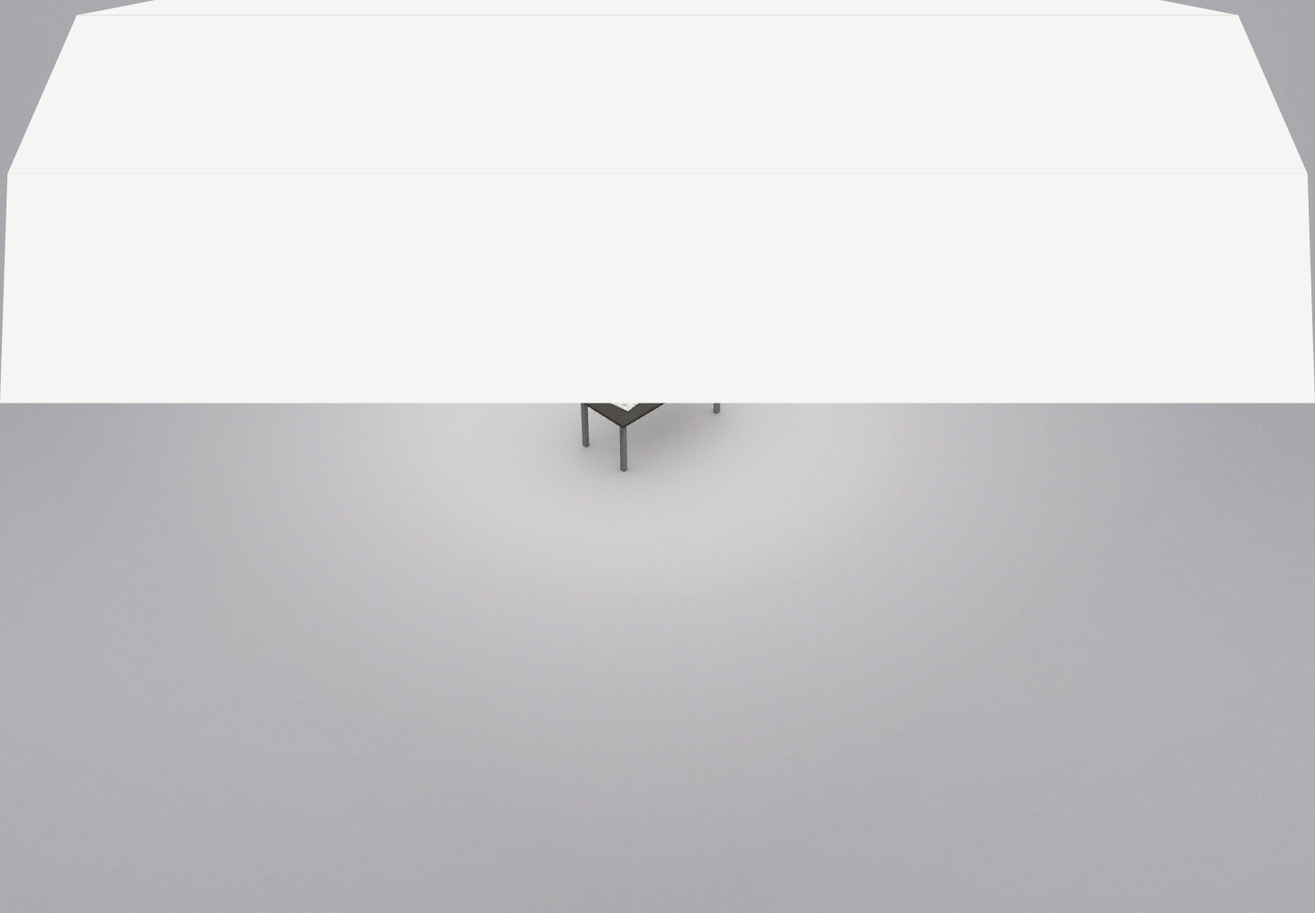
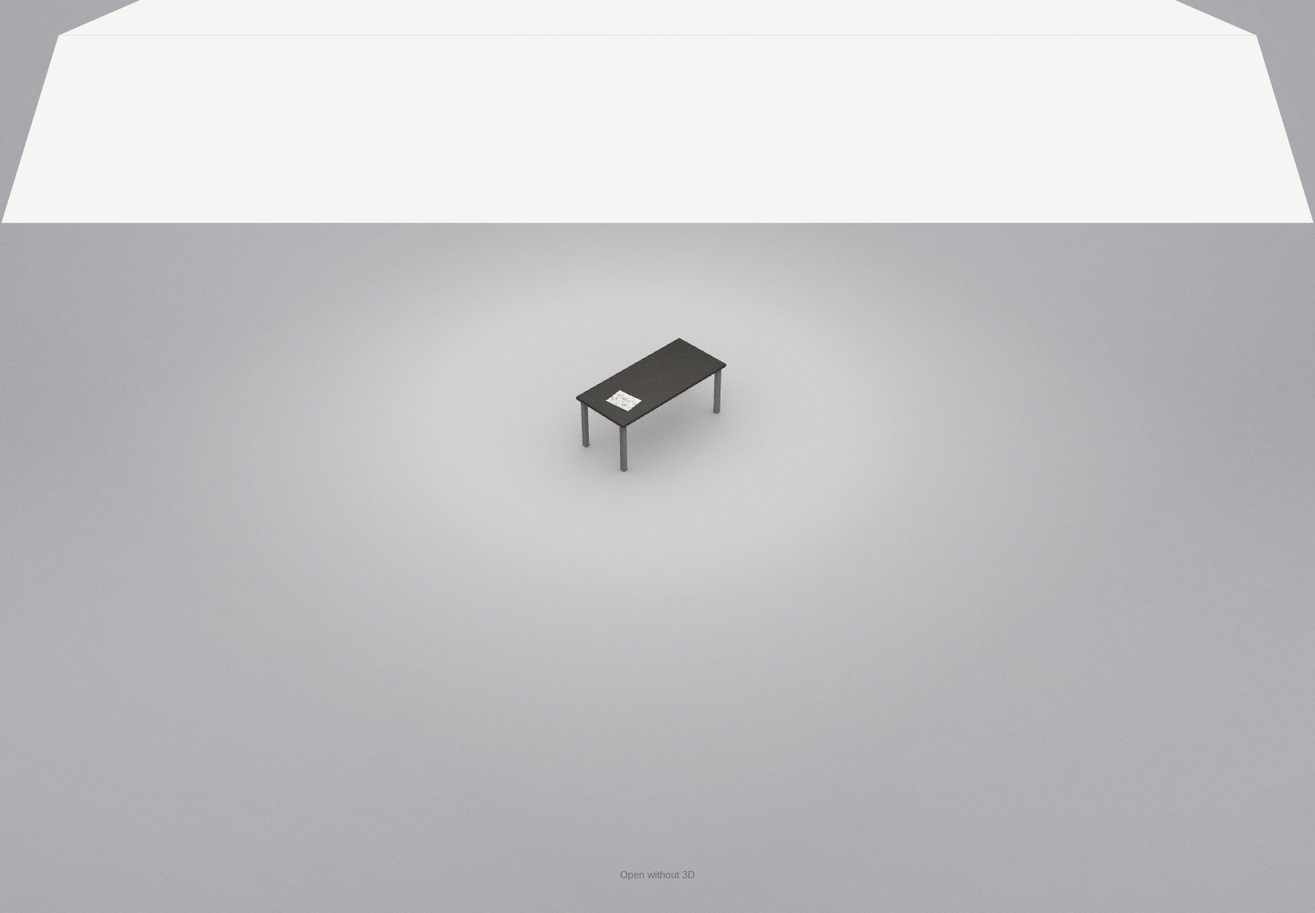
Add minimal text-first entrance and real workspace loader

diff --git a/experience/src/Application/UI/components/LoadingScreen.tsx b/experience/src/Application/UI/components/LoadingScreen.tsx
@@ -2,14 +2,14 @@ import React, { useEffect, useRef, useState } from 'react';
 import Application from '../../Application';
 import eventBus from '../EventBus';
 
-/** Scroll controls the sectional door; Enter completes the same path automatically. */
+/** Real asset loading, then text moves away before the sectional door opens. */
 const LoadingScreen: React.FC = () => {
     const [progress, setProgress] = useState(0);
     const [failed, setFailed] = useState(false);
     const [phase, setPhase] = useState<'closed' | 'opening' | 'done'>('closed');
     const panels = useRef<(HTMLDivElement | null)[]>([]);
-    const enter = useRef<() => void>(() => {});
-    const motion = useRef({ current: 0, target: 0, automatic: false, from: 0, began: 0, finished: false });
+    const copy = useRef<HTMLElement>(null);
+    const motion = useRef({ current: 0, target: 0, finished: false });
 
     useEffect(() => {
         const update = (event: Event) => setProgress(Math.min(1, (event as CustomEvent).detail.progress || 0));
@@ -19,6 +19,7 @@ const LoadingScreen: React.FC = () => {
         const application = new Application();
         application.camera.interactionLocked = true;
         const resources = application.resources;
+        if (resources.failed) setFailed(true);
         if (resources.toLoad > 0) setProgress(resources.loaded / resources.toLoad);
         return () => {
             document.removeEventListener('loadedSource', update);
@@ -52,10 +53,17 @@ const LoadingScreen: React.FC = () => {
             removeListeners();
         };
         const draw = (value: number) => {
+            // The first 30% is only the introduction; the door stays closed.
+            const textProgress = Math.min(1, value / .30);
+            if (copy.current) {
+                copy.current.style.transform = `translateY(${-textProgress * innerHeight * .6}px)`;
+                copy.current.style.opacity = `${1 - Math.max(0, (textProgress - .2) / .8)}`;
+            }
+            const doorProgress = Math.max(0, (value - .30) / .70);
             const height = window.innerHeight;
             const panelHeight = height / 4;
             const radius = panelHeight * 1.15;
-            const lift = value * (height + Math.PI * radius / 2 + height * .25);
+            const lift = doorProgress * (height + Math.PI * radius / 2 + height * .25);
             const bend = Math.min(1, lift / radius);
             const track = (distance: number) => {
                 const flatY = height - distance;
@@ -80,14 +88,8 @@ const LoadingScreen: React.FC = () => {
         const animate = (now: number) => {
             frame = 0;
             if (state.finished) return;
-            if (state.automatic) {
-                const t = Math.min(1, (now - state.began) / 2000);
-                const eased = t < .5 ? 4 * t * t * t : 1 - Math.pow(-2 * t + 2, 3) / 2;
-                state.current = state.from + (1 - state.from) * eased;
-            } else {
-                const blend = 1 - Math.exp(-Math.min(64, now - previous) / 70);
-                state.current += (state.target - state.current) * blend;
-            }
+            const blend = 1 - Math.exp(-Math.min(64, now - previous) / 70);
+            state.current += (state.target - state.current) * blend;
             previous = now;
             draw(state.current);
             if (state.target >= 1 && state.current > .999) { finish(); return; }
@@ -97,13 +99,13 @@ const LoadingScreen: React.FC = () => {
                 setPhase('closed');
                 return;
             }
-            if (state.automatic || Math.abs(state.target - state.current) > .0001) frame = requestAnimationFrame(animate);
+            if (Math.abs(state.target - state.current) > .0001) frame = requestAnimationFrame(animate);
         };
         const schedule = () => {
             if (!frame) { previous = performance.now(); frame = requestAnimationFrame(animate); }
         };
         const advance = (amount: number) => {
-            if (state.finished || state.automatic) return;
+            if (state.finished) return;
             if (reduced && amount > 0) { finish(); return; }
             state.target = Math.max(0, Math.min(1, state.target + amount));
             if (state.target > 0) setPhase('opening');
@@ -126,19 +128,10 @@ const LoadingScreen: React.FC = () => {
         }
         function keyboard(event: KeyboardEvent) {
             if ((event.target as Element).closest('a,button,input')) return;
-            if (['ArrowDown', 'PageDown', ' '].includes(event.key)) { event.preventDefault(); advance(.3); }
-            if (['ArrowUp', 'PageUp'].includes(event.key)) { event.preventDefault(); advance(-.3); }
+            if (['ArrowDown', 'PageDown', ' '].includes(event.key)) { event.preventDefault(); advance(.25); }
+            if (['ArrowUp', 'PageUp'].includes(event.key)) { event.preventDefault(); advance(-.25); }
+            if (['Enter', 'End'].includes(event.key)) { event.preventDefault(); advance(1); }
         }
-        enter.current = () => {
-            if (state.finished) return;
-            if (reduced) { finish(); return; }
-            state.from = state.current;
-            state.began = performance.now();
-            state.automatic = true;
-            state.target = 1;
-            setPhase('opening');
-            schedule();
-        };
         window.addEventListener('resize', resize);
         document.addEventListener('wheel', wheel, { passive: false });
         document.addEventListener('touchstart', touchStart, { passive: true });
@@ -148,6 +141,7 @@ const LoadingScreen: React.FC = () => {
     }, [ready]);
 
     if (phase === 'done') return null;
+    const loadingText = progress < .35 ? 'Loading graphics workspace…' : progress < .8 ? 'Setting up the workbench…' : 'One last bolt…';
     return (
         <div className={`garage-entry garage-entry--${phase}`} aria-label="Workshop entrance">
             <div className="garage-door" aria-hidden="true">
@@ -157,14 +151,20 @@ const LoadingScreen: React.FC = () => {
                     ))}
                 </div>
             </div>
-            <section className="garage-nameplate" aria-label="Shreethan Palla portfolio">
-                <h1 className="garage-name">Hey, I’m <span className="garage-person">Shreethan Palla.</span></h1>
-                <p className="garage-intro">I love building things that move.</p>
+            {!ready && <div className="workspace-loading">
+                {failed ? <p className="workspace-load-error" role="alert">The 3D workspace couldn’t load.</p> : <>
+                    <div className="workspace-spinner" role="progressbar" aria-label="Loading graphics workspace" aria-valuemin={0} aria-valuemax={100} aria-valuenow={Math.round(progress * 100)} />
+                    <p className="workspace-load-message" role="status">{loadingText}</p>
+                    <span className="workspace-load-percent" aria-hidden="true">{Math.round(progress * 100)}%</span>
+                </>}
+            </div>}
+            {ready && <section className="garage-copy" ref={copy} aria-label="About Shreethan">
+                <h1 className="garage-name">Hey! I’m <span className="garage-person">Shreethan Palla.</span></h1>
+                <p className="garage-intro">I build robots, RC cars, and software.</p>
                 <p className="garage-hint">Scroll to open</p>
-                <button className="garage-start" onClick={() => enter.current()} disabled={!ready}>Enter</button>
-                <p className="garage-sr-only" role="status">{failed ? 'Unable to load the workshop.' : ready ? 'Scroll, swipe up, or press Enter to open.' : 'Loading workshop.'}</p>
-                <a className="garage-direct" href="/desktop">Open without 3D</a>
-            </section>
+                <p className="garage-sr-only">Scroll, swipe up, or use Page Down to open. Press End to continue directly.</p>
+            </section>}
+            <a className="garage-direct" href="/desktop">Open without 3D</a>
         </div>
     );
 };

diff --git a/experience/src/Application/UI/style.css b/experience/src/Application/UI/style.css
@@ -198,22 +198,22 @@ br {
 .garage-panels{position:absolute;inset:0;perspective:140vh;perspective-origin:50% 0%;transform-style:preserve-3d}
 .garage-panel{position:absolute;left:0;width:100%;height:calc(25% + 1px);background:var(--studio-surface);border-top:1px solid var(--studio-line);box-sizing:border-box;backface-visibility:visible;transform-origin:50% 50%;will-change:transform}
 .garage-panel:first-child{border-top:0}
-.garage-nameplate{position:relative;z-index:2;width:min(520px,calc(100vw - 40px));min-height:300px;padding:36px 28px;box-sizing:border-box;display:flex;flex-direction:column;align-items:center;justify-content:center;background:var(--studio-white);border:1px solid var(--studio-line);border-radius:18px;text-align:center;transition:opacity .2s ease,transform .25s ease}
-.garage-entry--opening .garage-nameplate{opacity:0;transform:translateY(-6px)}
-.garage-name{font:400 32px/1.2 Arial,Helvetica,sans-serif!important;letter-spacing:-.9px;color:var(--studio-ink)!important;margin:0!important}
+.garage-copy{position:fixed;inset:0;display:flex;flex-direction:column;align-items:center;justify-content:center;padding:28px;box-sizing:border-box;text-align:center;pointer-events:none;will-change:transform,opacity}
+.garage-name{max-width:1100px;font:650 clamp(32px,4.3vw,64px)/1.12 Arial,Helvetica,sans-serif!important;letter-spacing:-1.8px;color:var(--studio-ink)!important;margin:0!important}
 .garage-person{display:inline-block;white-space:nowrap}
-.garage-intro{font:16px/1.5 Arial,Helvetica,sans-serif!important;color:var(--studio-muted)!important;margin:12px 0 24px!important}
-.garage-hint{font:11px/1.5 Arial,Helvetica,sans-serif!important;color:var(--studio-muted)!important;margin:0 0 10px!important}
-.garage-entry--opening .garage-nameplate:has(:focus-visible){opacity:1;transform:none}
-.garage-start{min-width:156px;min-height:44px;border:1px solid var(--studio-ink);border-radius:9px;background:var(--studio-ink);padding:11px 28px;font:14px Arial,Helvetica,sans-serif;color:var(--studio-white);cursor:pointer;text-align:center;transition:opacity .15s ease}
-.garage-start:hover:not(:disabled){opacity:.85}
-.garage-start:disabled{opacity:.4;cursor:wait}
-.garage-direct{font:11px/1.6 Arial,Helvetica,sans-serif;color:var(--studio-muted);margin-top:12px;text-decoration:none}
+.garage-intro{max-width:1000px;font:600 clamp(24px,3vw,42px)/1.24 Arial,Helvetica,sans-serif!important;letter-spacing:-.8px;color:var(--studio-ink)!important;margin:18px 0 0!important}
+.garage-hint{font:12px/1.5 Arial,Helvetica,sans-serif!important;color:var(--studio-muted)!important;margin:32px 0 0!important;letter-spacing:.2px}
+.garage-direct{position:fixed;bottom:max(24px,env(safe-area-inset-bottom));left:50%;transform:translateX(-50%);z-index:3;pointer-events:auto;font:11px/1.6 Arial,Helvetica,sans-serif;color:var(--studio-muted);padding:8px;text-decoration:none;white-space:nowrap}
 .garage-direct:hover{text-decoration:underline;text-underline-offset:3px}
+.garage-direct:focus-visible{outline:2px solid var(--studio-muted);outline-offset:3px}
 .garage-sr-only{position:absolute!important;width:1px;height:1px;padding:0;margin:-1px;overflow:hidden;clip:rect(0,0,0,0);white-space:nowrap;border:0}
-.garage-nameplate button:focus-visible,.garage-direct:focus-visible{outline:2px solid var(--studio-muted);outline-offset:4px}
-@media(max-width:600px){.garage-nameplate{min-height:300px;padding:28px 20px}.garage-name{font-size:29px!important}}
-@media(prefers-reduced-motion:reduce){.garage-nameplate,.garage-start{transition:none}}
+.workspace-loading{position:fixed;inset:0;z-index:2;display:flex;flex-direction:column;align-items:center;justify-content:center;gap:18px;background:var(--studio-surface);padding:28px;box-sizing:border-box;text-align:center}
+.workspace-spinner{width:36px;height:36px;border:2px solid var(--studio-line);border-top-color:var(--studio-ink);border-right-color:var(--studio-ink);border-radius:50%;box-sizing:border-box;animation:workspace-spin .85s linear infinite}
+.workspace-load-message,.workspace-load-error{font:14px/1.6 Arial,Helvetica,sans-serif!important;color:var(--studio-ink)!important;margin:0!important}
+.workspace-load-percent{font:11px/1 Arial,Helvetica,sans-serif;color:var(--studio-muted)}
+@keyframes workspace-spin{to{transform:rotate(360deg)}}
+@media(max-width:600px){.garage-copy{padding:24px}.garage-name{letter-spacing:-1px}.garage-intro{max-width:350px;letter-spacing:-.4px}}
+@media(prefers-reduced-motion:reduce){.workspace-spinner{animation:none}}
 
 /* The paper's screen projection gives keyboard users an equivalent desk object. */
 .paper-access{position:fixed;z-index:4;transform:translateX(-50%);opacity:0;pointer-events:none;border:1px solid var(--studio-line);border-radius:6px;background:var(--studio-white);color:var(--studio-ink);padding:8px 12px;font:13px Arial,sans-serif}

diff --git a/experience/src/Application/Utils/Resources.ts b/experience/src/Application/Utils/Resources.ts
@@ -16,6 +16,7 @@ export default class Resources extends EventEmitter {
     };
     toLoad: number;
     loaded: number;
+    failed = false;
     loaders: {
         gltfLoader: GLTFLoader;
         textureLoader: THREE.TextureLoader;
@@ -55,22 +56,27 @@ export default class Resources extends EventEmitter {
             if (source.type === 'gltfModel') {
                 this.loaders.gltfLoader.load(source.path, (file) => {
                     this.sourceLoaded(source, file);
-                }, undefined, () => { UIEventBus.dispatch('resourceLoadFailed', { name: source.name }); });
+                }, undefined, () => { this.sourceFailed(source); });
             } else if (source.type === 'texture') {
                 this.loaders.textureLoader.load(source.path, (file) => {
                     file.encoding = THREE.sRGBEncoding;
                     this.sourceLoaded(source, file);
-                }, undefined, () => { UIEventBus.dispatch('resourceLoadFailed', { name: source.name }); });
+                }, undefined, () => { this.sourceFailed(source); });
             } else if (source.type === 'cubeTexture') {
                 this.loaders.cubeTextureLoader.load(source.path, (file) => {
                     this.sourceLoaded(source, file);
-                }, undefined, () => { UIEventBus.dispatch('resourceLoadFailed', { name: source.name }); });
+                }, undefined, () => { this.sourceFailed(source); });
             } else if (source.type === 'audio') {
                 this.loaders.audioLoader.load(source.path, (buffer) => {
                     this.sourceLoaded(source, buffer);
-                });
+                }, undefined, () => { this.sourceFailed(source); });
             }
         }
+    }
+
+    sourceFailed(source: Resource) {
+        this.failed = true;
+        UIEventBus.dispatch('resourceLoadFailed', { name: source.name });
     }
 
     sourceLoaded(source: Resource, file: LoadedResource) {

diff --git a/docs/FUNDAMENTALS.md b/docs/FUNDAMENTALS.md
@@ -102,13 +102,13 @@ A deployment-specific Vercel URL identifies one build and stays on that version.
 
 Read `experience/src/Application/UI/components/LoadingScreen.tsx` alongside `experience/src/Application/UI/style.css`.
 
-1. Asset-loading events update progress. Entry controls are enabled once the listed assets finish loading.
-2. The closed door consists of four HTML sections with flat off-white surfaces and thin seams. The introduction says “Hey, I’m Shreethan Palla. I love building things that move.” Shared CSS variables define the neutral palette.
-3. Downward scroll or upward touch movement accumulates into a target value between zero and one. A small smoothing loop brings the displayed progress toward that value. Scrolling back reverses the door before entry completes. Enter automatically animates that same progress to one; keyboard PageDown/arrow keys also advance it.
-4. Each section's endpoints follow a vertical path that curves overhead. The endpoints determine its center and tilt; CSS `translate3d` and `rotateX` show the movement. The door is a screen-space illusion rather than physical geometry in the room.
-5. Once the door has opened, its overlay is removed, scene interactions are unlocked, and `loadingScreenDone` starts the room camera approach. Until then, clicks cannot move the camera underneath the entrance. Reduced-motion opens immediately when entry is requested.
+1. Asset-loading events update the loader's progress. A small CSS ring rotates beside a short status message. The displayed percentage is completed asset count divided by listed asset count, not downloaded bytes. Progress chooses the copy; there is no artificial wait to display all messages. Model, texture and audio failures are stored and reported, so a failed asset does not leave an endless spinner.
+2. When assets are ready, the loader disappears and bold text sits directly on the closed door: “Hey! I’m Shreethan Palla. I build robots, RC cars, and software.” There is no card or Enter button. Open without 3D is a permanent entry alternative.
+3. Downward scroll or upward touch movement accumulates into a target value between zero and one. A smoothing loop brings displayed progress toward that target. In the first 30%, the text moves upward and fades while the door stays closed. In the remaining 70%, the panels follow the curved overhead track. Scrolling back restores previous states until entry finishes.
+4. Each door section's endpoints determine its center and tilt; CSS `translate3d` and `rotateX` show the movement. The door is a screen-space illusion rather than physical geometry in the room. Keyboard arrows/PageDown advance the same sequence; End or keyboard Enter can continue directly. Reduced-motion enters immediately.
+5. Once the door has opened, its overlay is removed, scene interactions unlock, and `loadingScreenDone` starts the room camera approach. Until then, clicks cannot move the camera underneath the entrance.
 
-The browser's `requestAnimationFrame` schedules updates before display frames. Scroll distance chooses a desired position; smoothing helps it settle toward that position. This differs from playing an entire timed animation after the first wheel event: stopping partway leaves the door partway open. The Enter alternative is intentionally timed for users who prefer a button.
+The browser's `requestAnimationFrame` schedules updates before display frames. Scroll distance chooses a desired position; smoothing helps it settle toward that position. Stopping partway leaves the sequence partway through, rather than starting a compulsory timed movie. The static loader, direct content link and keyboard controls keep the portfolio usable without a pointer or motion effects.
 
 ## 6. How the 3D room works
 

diff --git a/experience/UPSTREAM.md b/experience/UPSTREAM.md
@@ -11,7 +11,7 @@ The original GLB geometry and baked textures are included under the repository's
 Kept: Three.js renderer, original authored computer/environment/decor models, baked textures, screen effects, camera states, and asset-loading events.
 Changed: garage-door entrance replacing the original BIOS screen; name/metadata; same-origin /desktop instead of Henry's OS; origin/source validation on iframe messages; build output path; HTML-loader asset handling; pinned compatible Node types. Removed Henry's analytics, contact-email server, personal biography metadata, and unused media. His separate inner OS repository was not copied.
 
-The current checkpoint displays a bare tabletop and four legs, using the original desk dimensions and backdrop with regenerated shadows. The computer, decor, chair and monitor are disabled; their original assets remain available. The flat sectional garage entrance is a screen-space HTML/CSS door using the existing camera event. A procedural lined résumé sheet now lifts and brightens on hover and opens a same-origin HTML reader with a placeholder PDF. The authored desk view and paper placement are configured in World/WorkshopLayout.ts. Modern PC and custom project CAD remain future changes. The empty environment is reproducible with tools/build-empty-workbench.py and Blender; committed generated assets are used at runtime.
+The current checkpoint displays a bare tabletop and four legs, using the original desk dimensions and backdrop with regenerated shadows. The computer, decor, chair and monitor are disabled; their original assets remain available. The flat sectional garage entrance is a screen-space HTML/CSS door using the existing camera event. A real asset-loading ring precedes a text-only introduction; scroll moves the copy away before opening the door. There is no intro card or Enter button. A procedural lined résumé sheet now lifts and brightens on hover and opens a same-origin HTML reader with a placeholder PDF. The authored desk view and paper placement are configured in World/WorkshopLayout.ts. Modern PC and custom project CAD remain future changes. The empty environment is reproducible with tools/build-empty-workbench.py and Blender; committed generated assets are used at runtime.
 
 Install: npm ci --prefix experience --cache /workspace/.npm
 Build: npm run build:experience from repository root.

diff --git a/docs/VALIDATION.md b/docs/VALIDATION.md
@@ -73,3 +73,15 @@ The full production build and formatting/whitespace checks passed. Final Chromiu
 Full production build, final renderer build and formatting checks passed. Chromium verified greeting/copy, partial wheel opening, reverse scrolling back to closed, complete entry, Enter button/keyboard entry, PageDown entry, reduced-motion entry, mobile layout and the touch-event path. A separate native CDP touch swipe also opened the door. After resizing a partly open entrance from 1440×1000 to 390×844, panel dimensions updated, reverse scrolling closed it, and scrolling reopened it. The résumé still opens/closes with touch; its HTML body and direct route contain lorem ipsum without project/contact content. The downloaded PDF is valid; text extraction confirms lorem ipsum and no project/contact text. Regular functional runs reported no page errors or failed asset requests.
 
 The PC remains deferred. Source research verified Henry's baked-model helper, Bruno's mesh-name/material parser and resource manifest, and the glTF Transform CLI README. No exact Corsair 5000T asset has been selected or verified.
+
+## Text-only entrance and real asset loader
+
+Full production build, formatting and whitespace checks passed. Chromium checks held actual scene assets to verify the circular progress UI and no greeting before readiness; after release, the loader cleared without an added delay. The card and Enter button are absent. Initial scroll moved/faded the text while all door panel rotations stayed at zero; further scroll hid the copy and tilted the door sections; reversing restored the text and closed door. End-key entry, reduced-motion entry, native touch swipe and narrow text layout passed. The existing résumé still opens by keyboard and contains lorem ipsum.
+
+An intentionally aborted audio asset produced a short failure alert, removed the spinner and left a functioning direct desktop link. Regular functional runs reported no page errors or failed resource responses; that explicit failure scenario is separate.
+
+![Actual workspace loader](images/workspace-loader.png)
+
+![Text-only introduction](images/garage-door.png)
+
+![Phone introduction](images/intro-mobile.png)

diff --git a/docs/DECISIONS.md b/docs/DECISIONS.md
@@ -25,7 +25,9 @@ No simultaneous redesign of all six steps. No claims of real robot accuracy with
 
 ## Garage entrance implemented
 
-A flat white/off-white sectional door uses four sections with thin seams and no decorative recesses, gradients or shadows. A rounded rectangular card introduces “Hey, I’m Shreethan Palla. I love building things that move.” with Scroll to open, Enter and Open without 3D. Scroll/swipe progress moves each section along the curved overhead track and can reverse before entry completes. Enter animates the same path automatically. The room camera starts its approach after the door opens. The room overlay keeps the name and live local clock, without a role subtitle. Reduced-motion skips the opening animation.
+A flat white/off-white sectional door uses four sections with thin seams and no decorative recesses, gradients or shadows. The intro is bold text directly on the door: “Hey! I’m Shreethan Palla. I build robots, RC cars, and software.” There is no intro card or Enter button. The first 30% of scroll progress moves/fades the text away; the remaining 70% opens the door. Reversing scroll restores earlier stages until entry completes. Page Down/arrow keys advance the same sequence; End or keyboard Enter can continue directly. The room camera starts its approach after the door opens.
+
+A small circular loader appears only while real assets are loading. Its messages are “Loading graphics workspace…”, “Setting up the workbench…” and “One last bolt…”, chosen by completed-asset progress. There is no forced loading delay. Open without 3D remains available during loading and entry. Asset failures show a short error and preserve that direct route. Reduced-motion skips entry animation.
 
 The entrance and room controls share CSS color variables: white `#ffffff`, off-white `#f5f5f3`, border `#dededb`, charcoal `#272725`, muted text `#71716d`. Existing desk materials and baked room lighting remain intact.
 

diff --git a/docs/PC-ASSET-BRIEF.md b/docs/PC-ASSET-BRIEF.md
@@ -64,3 +64,7 @@ The live Onshape help, model-viewer editor and glTF Transform documentation site
 First day: choose/reference the exact case and GPU; find or block out one model; gather the final résumé/contact/project content; keep the existing interaction design stable. Review the PC silhouette at its actual desk size before adding detail.
 
 Second day: integrate the prepared asset, tune its materials and placement, verify phones/keyboard/loading, replace approved content and check the actual Vercel deployment. A full hardware-accurate PC interior is a later iteration. Keep the first release focused on the résumé and project stories rather than adding multiple new interaction systems.
+
+## Latest model-source check
+
+Direct requests to Sketchfab search/API, CGTrader, GrabCAD and Google search were blocked by this environment's network policy. Public GitHub code search required sign-in. No downloadable exact 5000T model or full matching PC build was verified. Use the asset-library search links above in a normal browser; inspect a candidate's actual downloadable geometry, parts and license before choosing it. The site still contains no placeholder PC.

diff --git a/docs/WORKSHOP-INTERACTIONS.md b/docs/WORKSHOP-INTERACTIONS.md
@@ -57,4 +57,4 @@ The download is a real, one-page PDF at `public/resume/shreethan-palla-placehold
 
 Run `npm run build:experience` after editing the layout or paper code, then refresh a running development server. The renderer watcher can do this during an editing session. For deployment, run the normal full build.
 
-Check: scroll/swipe or Enter → click desk → hover/focus paper → click/Enter → read/download → Back/Escape → open again. Repeat on a phone or narrow viewport and with reduced motion. Confirm the downloaded PDF actually contains the expected résumé text. A functioning link alone does not validate the document.
+Check: scroll/swipe or keyboard End → click desk → hover/focus paper → click/Enter → read/download → Back/Escape → open again. Repeat on a phone or narrow viewport and with reduced motion. Confirm the downloaded PDF actually contains the expected résumé text. A functioning link alone does not validate the document.

diff --git a/README.md b/README.md
@@ -1,6 +1,6 @@
 # Shreethan Palla — portfolio
 
-A personal portfolio adapted from Henry Heffernan’s licensed Three.js room. The current checkpoint has a scroll-controlled garage-door entrance, a four-legged desk and an interactive résumé sheet. Real project CAD, a new computer and final personal content come next.
+A personal portfolio adapted from Henry Heffernan’s licensed Three.js room. The current checkpoint has a text-first, scroll-controlled garage-door entrance with an asset loader, a four-legged desk and an interactive résumé sheet. Real project CAD, a new computer and final personal content come next.
 
 ![Current desk with résumé paper](docs/images/paper-resting.png)
 
